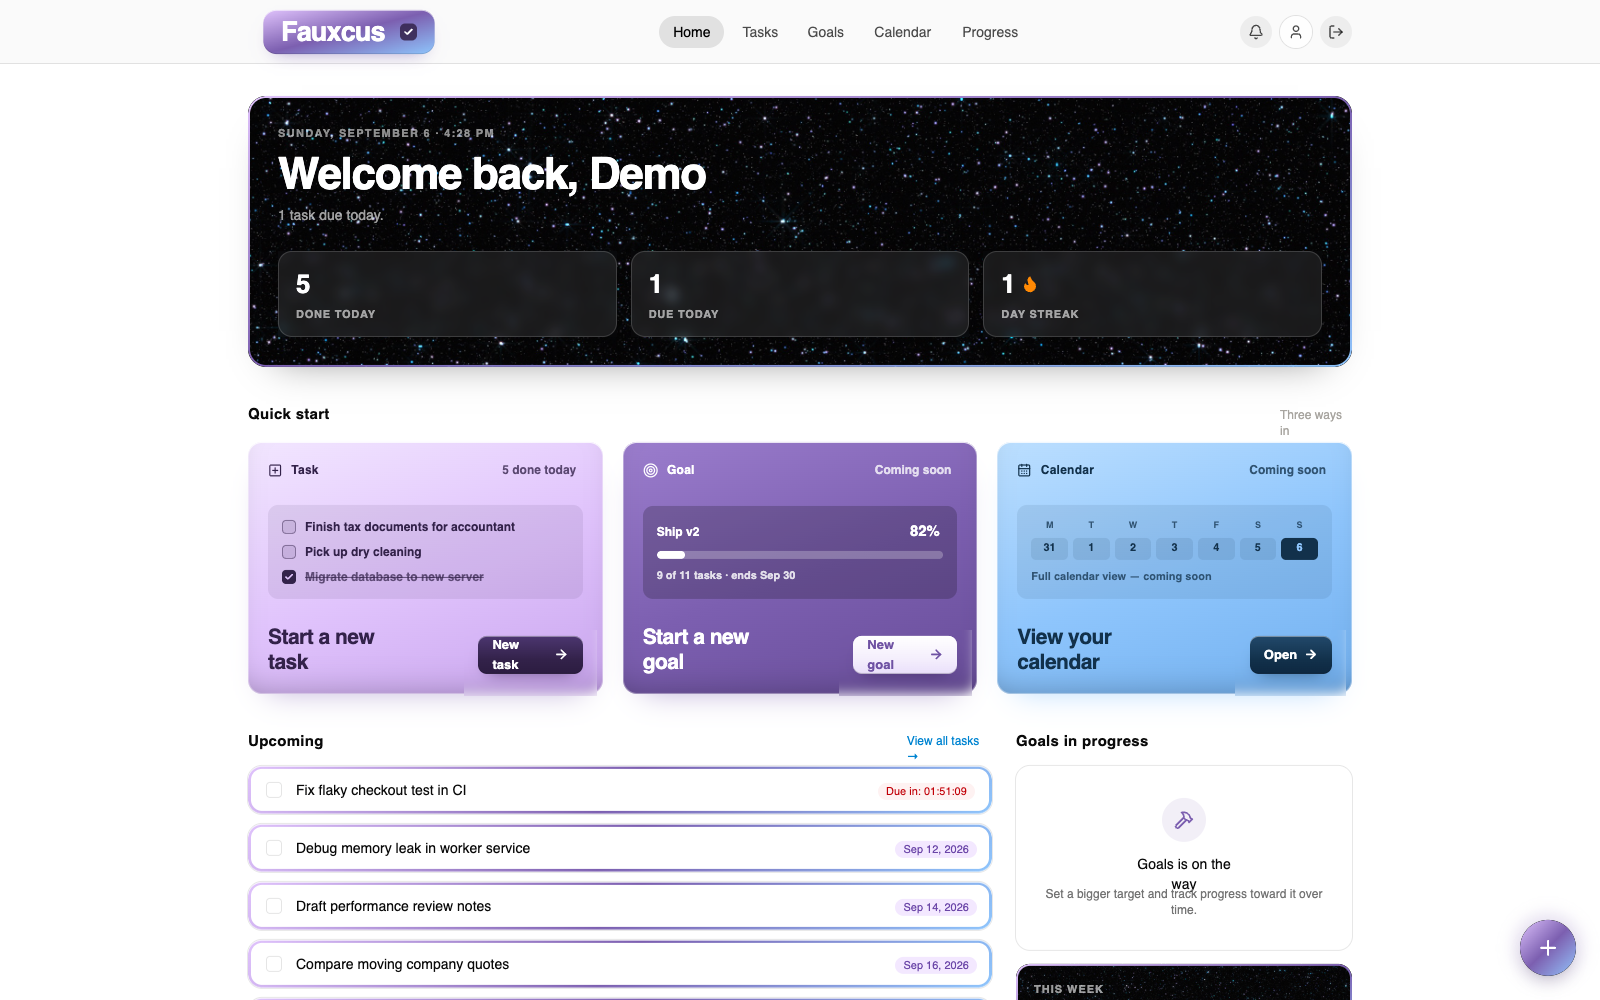
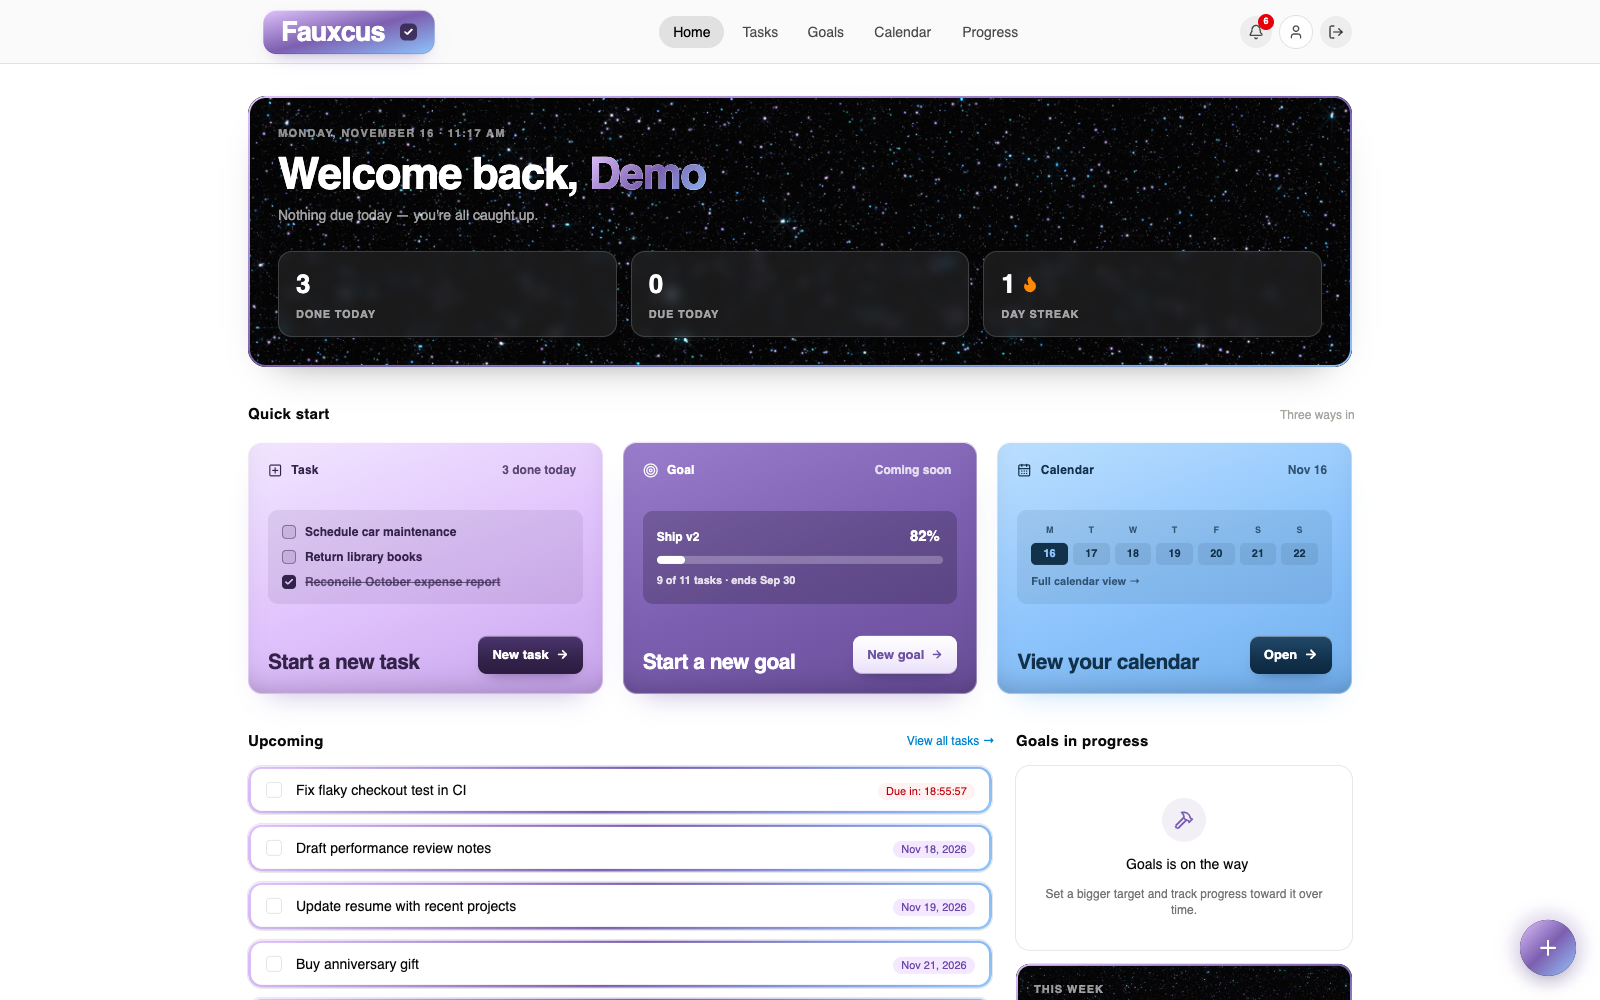
Refresh screenshots from the live site; add Calendar screenshots
Recaptured Dashboard, Task list, Task detail (in-progress + completed)
and Progress from the live deployment after re-dating the demo
account's open tasks into the future (they had all aged into overdue
since the Sep 6 seed). Added the first Calendar screenshots (month
view, plus a week-view close-up of the hourly grid) and a Calendar
section in the README. Softened the live-demo blurb so it no longer
promises 'every deadline state' (nothing is overdue on the demo now).

Progress is shown on the 90-day toggle: the demo's completions are
60-70 days old, so the 30-day view only has 3 tasks and reads oddly.

diff --git a/README.md b/README.md
@@ -31,7 +31,7 @@ This project demonstrates:
 
 **[fauxcus-api.onrender.com](https://fauxcus-api.onrender.com)**
 
-Log in with `demo@example.com` / `DemoPass123!` to see a seeded account with real tasks and subtasks in every deadline state. It's hosted on Render's free tier, so the first request after a period of inactivity can take about a minute to spin the container back up — later requests are fast.
+Log in with `demo@example.com` / `DemoPass123!` to see a seeded account: tasks and subtasks with deadlines on the Calendar, and a completion history behind the Progress page. It's hosted on Render's free tier, so the first request after a period of inactivity can take about a minute to spin the container back up — later requests are fast.
 
 ---
 
@@ -159,6 +159,13 @@ The same page in two of its four deadline-driven states — in progress (purple,
 
 ### Progress
 ![Progress](docs/screenshot-progress.png)
+
+### Calendar
+
+Month view over tasks, subtasks, and calendar items, with deadline-state colouring (the urgent task is ember, the rest calm purple), a filter rail, and a selected-day panel. Week and Day views switch to a 24-hour hourly grid — a close-up of Week below.
+
+![Calendar — month](docs/screenshot-calendar.png)
+![Calendar — week, hourly grid](docs/screenshot-calendar-week.png)
 
 ---
 
